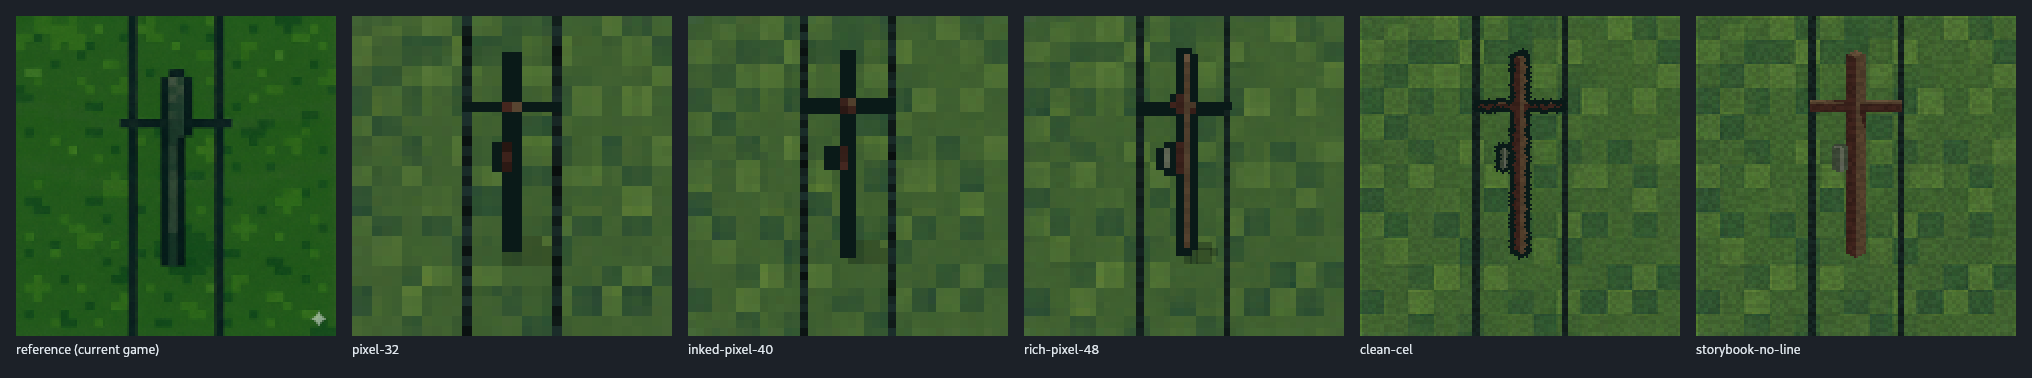
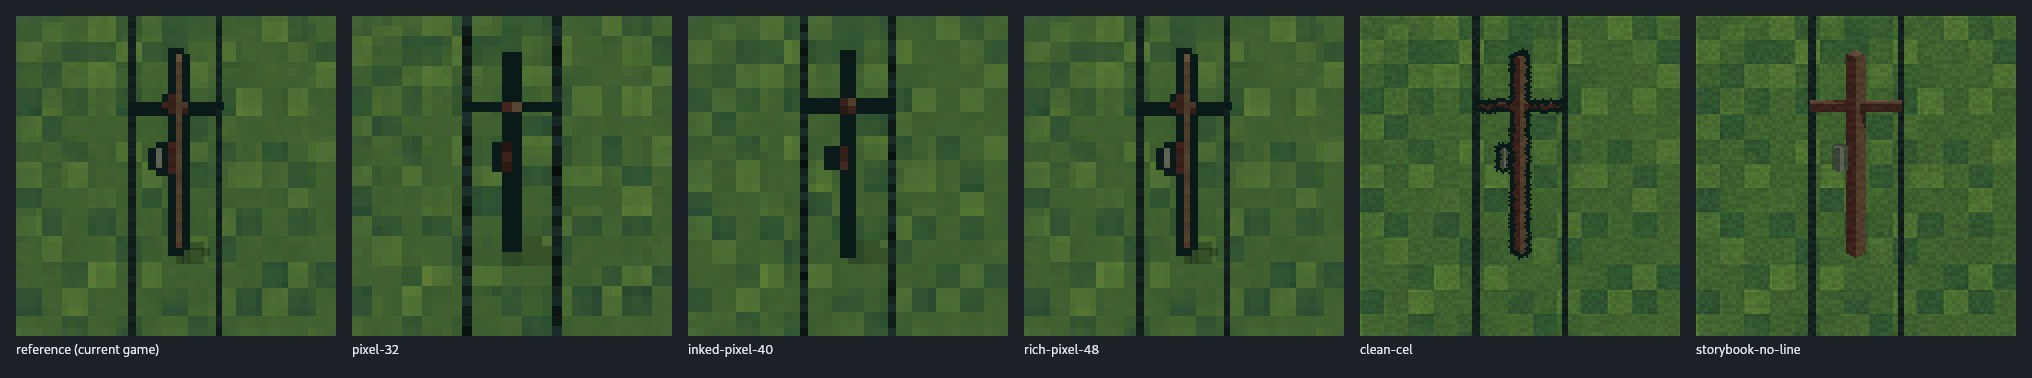
fix(render): full 15-variant hydro line tileset — corners, junctions, ends
Hydro lines shipped only two sprites, a vertical and a horizontal run.
`pickPowerLineTexture` handled straight-throughs and dead ends and returned
`undefined` for everything else; since `tileTexturePaths` has no entry for
`TileKind.PowerLine`, that fell all the way through `resolveTileSprite` to
the renderer's flat-colour-rect branch. Ten of the sixteen N/E/S/W
permutations — four corners, four T-junctions, the crossing and an isolated
tile — drew a plain yellow square instead of a wire.

That is not an edge case. `isPowerCarrier` counts roads, rails, zones and
buildings as connections, so any line run alongside or into built-up land
registers three or four neighbours and hits the broken path.

Hydro now reuses the road set's 15-variant connectivity mapping, generated
from one parametric scene like `road.py`/`rail.py`.

The blocker was that the two old sprites used incompatible projections:
`ns` was plan view (straight parallel wires) while `ew` was elevation view
(a catenary sagging toward the tile edges). Wires arriving from the north as
two parallel lines have nothing to join a curve hanging in elevation, which
is why corners never existed. Unifying on plan view makes all 15 fall out
mechanically. The cost is the sag on E-W runs, and — because a horizontal
crossarm can only present its tips along one screen axis under a fixed
dimetric camera — E-W wires pass the pole rather than visibly hanging from
it. A second crossarm at right angles was tried and reverted: it
[…]

Changed region(s): [[0.0, 0.0291, 0.186, 0.9021]]

diff --git a/app/src/rendering/tileAtlas.ts b/app/src/rendering/tileAtlas.ts
@@ -25,7 +25,7 @@ export interface TileTextures {
   rail: Partial<Record<RoadVariant, PIXI.Texture>>;
   railCrossing: Partial<Record<'ns' | 'ew', PIXI.Texture>>;
   powerPlant: Partial<Record<PowerPlantType, PIXI.Texture>>;
-  powerLine: Partial<Record<'north' | 'east' | 'south' | 'west', PIXI.Texture>>;
+  powerLine: Partial<Record<RoadVariant, PIXI.Texture>>;
   residentialHouses: PIXI.Texture[];
   commercialBuildings: PIXI.Texture[];
   commercialGeminiBuildings: PIXI.Texture[];
@@ -97,10 +97,27 @@ const powerPlantTexturePaths: Partial<Record<PowerPlantType, string>> = {
   [PowerPlantType.Wind]:  assetPath('assets/tiles/power/power-plant-wind.png')
 };
 
-const powerLineTexturePaths = {
-  horizontal: assetPath('assets/tiles/power/power-line-horizontal.png'),
-  vertical:   assetPath('assets/tiles/power/power-line-vertical.png')
-} as const;
+// Hydro lines share the road set's 15-variant connectivity naming. Before
+// this set existed there were only two sprites (a vertical and a horizontal
+// run), so corners, T-junctions and crossings had nothing to draw and fell
+// through to a flat colour rect.
+const powerLineTexturePaths: Record<RoadVariant, string> = {
+  'ns':         assetPath('assets/tiles/power/power-line-ns.png'),
+  'ew':         assetPath('assets/tiles/power/power-line-ew.png'),
+  'corner-ne':  assetPath('assets/tiles/power/power-line-corner-ne.png'),
+  'corner-nw':  assetPath('assets/tiles/power/power-line-corner-nw.png'),
+  'corner-se':  assetPath('assets/tiles/power/power-line-corner-se.png'),
+  'corner-sw':  assetPath('assets/tiles/power/power-line-corner-sw.png'),
+  't-nes':      assetPath('assets/tiles/power/power-line-t-nes.png'),
+  't-new':      assetPath('assets/tiles/power/power-line-t-new.png'),
+  't-nsw':      assetPath('assets/tiles/power/power-line-t-nsw.png'),
+  't-esw':      assetPath('assets/tiles/power/power-line-t-esw.png'),
+  'cross':      assetPath('assets/tiles/power/power-line-cross.png'),
+  'end-n':      assetPath('assets/tiles/power/power-line-end-n.png'),
+  'end-e':      assetPath('assets/tiles/power/power-line-end-e.png'),
+  'end-s':      assetPath('assets/tiles/power/power-line-end-s.png'),
+  'end-w':      assetPath('assets/tiles/power/power-line-end-w.png')
+};
 
 const residentialHouseTexturePaths = [
   assetPath('assets/tiles/buildings/res-house-1.png'),
@@ -189,16 +206,12 @@ export async function loadTileTextures(): Promise<TileTextures> {
     })
   );
 
-  const [powerLineHorizontal, powerLineVertical] = await Promise.all([
-    PIXI.Assets.load<PIXI.Texture>(powerLineTexturePaths.horizontal),
-    PIXI.Assets.load<PIXI.Texture>(powerLineTexturePaths.vertical)
-  ]);
-  const powerLineTextures: TileTextures['powerLine'] = {
-    east:  powerLineHorizontal,
-    west:  powerLineHorizontal,
-    north: powerLineVertical,
-    south: powerLineVertical
-  };
+  const powerLineEntries = await Promise.all(
+    (Object.entries(powerLineTexturePaths) as [RoadVariant, string][]).map(async ([variant, path]) => {
+      const texture = await PIXI.Assets.load<PIXI.Texture>(path);
+      return [variant, texture] as const;
+    })
+  );
 
   const residentialHouses = await Promise.all(
     residentialHouseTexturePaths.map(async (path) => PIXI.Assets.load<PIXI.Texture>(path))
@@ -243,7 +256,7 @@ export async function loadTileTextures(): Promise<TileTextures> {
     rail:                   Object.fromEntries(railEntries),
     railCrossing:           Object.fromEntries(railCrossingEntries),
     powerPlant:             Object.fromEntries(powerPlantEntries),
-    powerLine:              powerLineTextures,
+    powerLine:              Object.fromEntries(powerLineEntries),
     residentialHouses,
     commercialBuildings,
     commercialGeminiBuildings,

diff --git a/app/src/rendering/tileRenderUtils.test.ts b/app/src/rendering/tileRenderUtils.test.ts
@@ -23,7 +23,11 @@ function makeTextures(): TileTextures {
     },
     railCrossing: { ns: tex('crossing-ns'), ew: tex('crossing-ew') },
     powerPlant: {},
-    powerLine: {},
+    powerLine: {
+      ns: tex('power-ns'), ew: tex('power-ew'), 'corner-ne': tex('power-corner-ne'),
+      'corner-se': tex('power-corner-se'),
+      't-nes': tex('power-t-nes'), cross: tex('power-cross'), 'end-n': tex('power-end-n')
+    },
     residentialHouses: [],
     commercialBuildings: [],
     commercialGeminiBuildings: [],
@@ -101,5 +105,57 @@ describe('rail-road level crossings', () => {
     const textures = makeTextures();
     for (const x of [1, 2, 3]) setTile(state, x, 2, TileKind.Road);
     expect(spriteName(state, 2, 2, textures)).toBe('road-ew');
+  });
+});
+
+describe('hydro line sprite picking', () => {
+  // Before the 15-variant set existed only straight runs and dead ends
+  // resolved to a sprite; corners, T-junctions and crossings fell through to
+  // a flat colour rect. These lock in the full connectivity mapping.
+  it('picks connectivity variants from power-carrying neighbours', () => {
+    const state = createInitialState(8, 8);
+    const textures = makeTextures();
+    // Vertical run.
+    setTile(state, 2, 1, TileKind.PowerLine);
+    setTile(state, 2, 2, TileKind.PowerLine);
+    setTile(state, 2, 3, TileKind.PowerLine);
+    expect(spriteName(state, 2, 2, textures)).toBe('power-ns');
+
+    // Turning east at the top of the run makes that tile a corner (it
+    // connects south and east), not a tile with no sprite at all.
+    setTile(state, 3, 1, TileKind.PowerLine);
+    expect(spriteName(state, 2, 1, textures)).toBe('power-corner-se');
+  });
+
+  it('resolves T-junctions and crossings instead of falling through', () => {
+    const state = createInitialState(8, 8);
+    const textures = makeTextures();
+    setTile(state, 4, 4, TileKind.PowerLine);
+    setTile(state, 4, 3, TileKind.PowerLine);   // north
+    setTile(state, 5, 4, TileKind.PowerLine);   // east
+    setTile(state, 4, 5, TileKind.PowerLine);   // south
+    expect(spriteName(state, 4, 4, textures)).toBe('power-t-nes');
+
+    setTile(state, 3, 4, TileKind.PowerLine);   // + west
+    expect(spriteName(state, 4, 4, textures)).toBe('power-cross');
+  });
+
+  it('treats roads and zones as connections, like the power grid does', () => {
+    // isPowerCarrier counts roads, rails, zones and buildings — so a line run
+    // beside built-up land hits the junction variants constantly.
+    const state = createInitialState(8, 8);
+    const textures = makeTextures();
+    setTile(state, 2, 2, TileKind.PowerLine);
+    setTile(state, 2, 1, TileKind.PowerLine);   // north
+    setTile(state, 3, 2, TileKind.Road);        // east
+    expect(spriteName(state, 2, 2, textures)).toBe('power-corner-ne');
+  });
+
+  it('gives an isolated pole a dead-end sprite when it has one neighbour', () => {
+    const state = createInitialState(8, 8);
+    const textures = makeTextures();
+    setTile(state, 2, 2, TileKind.PowerLine);
+    setTile(state, 2, 1, TileKind.PowerLine);
+    expect(spriteName(state, 2, 2, textures)).toBe('power-end-n');
   });
 });

diff --git a/app/src/rendering/tileRenderUtils.ts b/app/src/rendering/tileRenderUtils.ts
@@ -276,29 +276,18 @@ function pickRailCrossingTexture(state: GameState, x: number, y: number, tileTex
 }
 
 function pickPowerLineTexture(state: GameState, x: number, y: number, tileTextures: TileTextures): Texture | undefined {
-  const connectsToPower = (tx: number, ty: number) => {
-    const neighbour = getTile(state, tx, ty);
-    return isPowerCarrier(neighbour);
-  };
+  const connectsToPower = (tx: number, ty: number) => isPowerCarrier(getTile(state, tx, ty));
 
-  const north = y > 0 && connectsToPower(x, y - 1);
-  const south = y < state.height - 1 && connectsToPower(x, y + 1);
-  const east = x < state.width - 1 && connectsToPower(x + 1, y);
-  const west = x > 0 && connectsToPower(x - 1, y);
+  const n = y > 0 && connectsToPower(x, y - 1);
+  const e = x < state.width  - 1 && connectsToPower(x + 1, y);
+  const s = y < state.height - 1 && connectsToPower(x, y + 1);
+  const w = x > 0 && connectsToPower(x - 1, y);
 
-  const powerTextures = tileTextures.powerLine;
-  const neighbours = [north, east, south, west].filter(Boolean).length;
-
-  if (neighbours === 2 && north && south && !east && !west) {
-    return powerTextures.north ?? powerTextures.south;
-  }
-  if (neighbours === 2 && east && west && !north && !south) {
-    return powerTextures.east ?? powerTextures.west;
-  }
-  if (neighbours === 1) {
-    if (north || south) return powerTextures.north ?? powerTextures.south;
-    if (east || west) return powerTextures.east ?? powerTextures.west;
-  }
-
-  return undefined;
+  // Hydro reuses the road set's 15-variant connectivity mapping. Previously
+  // only straight runs and dead ends resolved, so corners, T-junctions and
+  // crossings returned undefined and the renderer fell back to a flat colour
+  // rect — and because isPowerCarrier counts roads, rails, zones and
+  // buildings as connections, those cases are the norm in a built-up city,
+  // not an edge case.
+  return tileTextures.powerLine[roadVariant(n, e, s, w)];
 }

diff --git a/studio/scenes/power.py b/studio/scenes/power.py
@@ -1,13 +1,19 @@
-# Scene: hydro line ground tiles (wires only). The pole is a separate scene
-# (pole.py) rendered through the DIMETRIC camera and composited onto these
-# tiles by the stylizer — the same top-down-ground / elevation-pole cheat the
-# existing (liked) hand-made hydro sprites use.
+# Scene: hydro line ground tiles (wires only), all 15 connectivity variants.
+# The pole is a separate scene (pole.py) rendered through the DIMETRIC camera
+# and composited onto these tiles by the stylizer — the same top-down-ground /
+# elevation-pole cheat the hand-made hydro sprites use.
 #
-# Measured from those sprites, the two orientations use different cheats:
-# - vertical (ns): plan view — two dead-straight wires at ±0.53 world.
-# - horizontal (ew): elevation view — wires hang above centre (anchored at
-#   the pole's crossarm height) and sag toward the tile edges, kinking at
-#   each pole exactly like the reference.
+# PLAN VIEW THROUGHOUT. The first version of this scene drew `ns` in plan view
+# (straight parallel wires) but `ew` in elevation (a catenary sagging toward
+# the tile edges). Those two cheats cannot meet at a corner — a wire arriving
+# from the north as two parallel lines has nowhere to join a curve hanging in
+# elevation — which is why only the two straights and the four dead ends ever
+# had sprites, and every corner/T/cross fell through to a flat colour rect.
+# Unifying on plan view makes all 15 variants fall out of one parametric
+# scene, exactly like road.py and rail.py.
+#
+# Each variant is real rotated geometry — never a rotated sprite, which would
+# rotate the studio sun with it and break lighting consistency.
 #
 # (c) Copyright 2026 Liminal HQ, Scott Morris
 # SPDX-License-Identifier: MIT
@@ -15,37 +21,69 @@
 import math
 
 from studiolib import box
+from scenes.trackpath import CONNECTIVITY_VARIANTS
 
 TOP_DOWN = True
 ROTATION_DEG = 0
 
-VARIANTS = {'ns': None, 'ew': None}
-VARIANT = 'ns'
+VARIANTS = CONNECTIVITY_VARIANTS
+VARIANT = 'ns'  # overridden by the render driver
 
+HALF = 2.05          # overshoot the ±2.0 frame edge so neighbours meet cleanly
+OVERLAP = 0.08       # legs run just past centre so opposite legs join seamlessly
 WIRE_OFFSET = 0.56   # the pole's crossarm-tip gauge — wires attach there
-WIRE_W = 0.09
-# (anchor height at the pole, catenary dip at the tile edge). Both wires
-# attach at the crossarm — the upper on the bar, the lower at its underside —
-# but sag by different amounts, so the pair stays tight at the pole and fans
-# visibly apart toward the edges: attached AND clearly two wires.
-EW_WIRES = ((0.84, 0.20), (0.72, 0.34))
+WIRE_W = 0.09        # 1 art cell; anything thinner shreds when downsampled
+WIRE_Z = 0.06
+
+# Dead-end poles carry the whole pull of the line, so they're braced by guy
+# wires anchored on the far side. Two, splayed off the axis, the way real
+# terminal poles are guyed.
+GUY_LEN = 0.95
+GUY_TOP = 1.30       # attach height; only affects relief (wires are flat-shaded)
+GUY_SPLAY_DEG = 26
+
+# Unit vectors, in the top-down camera's north-up frame (+Y north, +X east).
+EDGE_DIR = {'n': (0.0, 1.0), 'e': (1.0, 0.0), 's': (0.0, -1.0), 'w': (-1.0, 0.0)}
+
+
+def _leg(mats, edge):
+    """A wire pair running from one tile edge in to just past the centre."""
+    ux, uy = EDGE_DIR[edge]
+    length = HALF + OVERLAP
+    mid = (HALF - OVERLAP) / 2
+    for side in (1, -1):
+        if ux == 0:                      # north/south leg — wires offset in X
+            loc = (WIRE_OFFSET * side, uy * mid, WIRE_Z)
+            scale = (WIRE_W, length, 0.04)
+        else:                            # east/west leg — wires offset in Y
+            loc = (ux * mid, WIRE_OFFSET * side, WIRE_Z)
+            scale = (length, WIRE_W, 0.04)
+        box(mats, 'wire', loc, scale)
+
+
+def _guy(mats, ux, uy):
+    """One guy wire: from the pole's upper trunk down to a ground anchor.
+
+    Modelled as a box elongated along +X, tilted about Y so it descends, then
+    spun about Z onto the compass bearing. Seen from the straight-down camera
+    it reads as a line radiating from the pole to its anchor.
+    """
+    span = math.hypot(GUY_LEN, GUY_TOP)
+    box(mats, 'wire',
+        (ux * GUY_LEN / 2, uy * GUY_LEN / 2, GUY_TOP / 2),
+        (span, WIRE_W * 0.8, 0.035),
+        (0, math.atan2(GUY_TOP, GUY_LEN), math.atan2(uy, ux)))
 
 
 def build(mats):
-    if VARIANT == 'ns':
-        for side in (1, -1):
-            box(mats, 'wire', (WIRE_OFFSET * side, 0, 0.06), (WIRE_W, 4.1, 0.04))
-    else:
-        # Sagging elevation-view wires: segmented along x, dipping toward the
-        # edges; adjacent tiles continue the curve, kinking at each pole.
-        segments = 16
-        for anchor, sag in EW_WIRES:
-            for i in range(segments):
-                x0 = -2.05 + 4.1 * i / segments
-                x1 = -2.05 + 4.1 * (i + 1) / segments
-                y0 = anchor - sag * (x0 / 2) ** 2
-                y1 = anchor - sag * (x1 / 2) ** 2
-                cx, cy = (x0 + x1) / 2, (y0 + y1) / 2
-                length = math.hypot(x1 - x0, y1 - y0)
-                box(mats, 'wire', (cx, cy, 0.06), (length + 0.02, WIRE_W, 0.04),
-                    (0, 0, math.atan2(y1 - y0, x1 - x0)))
+    edges = VARIANTS[VARIANT]
+    for edge in edges:
+        _leg(mats, edge)
+
+    # Dead end: brace the terminal pole against the single direction of pull.
+    if len(edges) == 1:
+        pull_x, pull_y = EDGE_DIR[next(iter(edges))]
+        base = math.atan2(-pull_y, -pull_x)          # anchor opposite the pull
+        for sign in (1, -1):
+            theta = base + sign * math.radians(GUY_SPLAY_DEG)
+            _guy(mats, math.cos(theta), math.sin(theta))

diff --git a/studio/scenes/pole.py b/studio/scenes/pole.py
@@ -24,11 +24,21 @@ def build(mats):
     # enough (0.17 ~ 2 art cells) that the wood material shows between its
     # ink outlines. Wood role — shaded two-tone by the studio sun.
     box(mats, 'tie', (0, 0, 1.35), (0.17, 0.17, 2.7))
-    # Single crossarm, oriented perpendicular to the camera azimuth so it
-    # reads horizontal, thick enough (0.14 ~ 1.7 art cells) that its wood
-    # core shows between the ink outlines like the pole's does. Both wires
-    # hang from its two ends. (Insulator nubs were tried and cut: sub-cell
-    # at this grid, they just added ink and mushed the junction.)
+    # Crossarms, thick enough (0.14 ~ 1.7 art cells) that the wood core shows
+    # between the ink outlines like the pole's does. (Insulator nubs were
+    # tried and cut: sub-cell at this grid, they just added ink and mushed
+    # the junction.)
+    #
+    # One arm, along world (-1, 1) so the fixed 45° azimuth reads it
+    # horizontal on screen, with its tips on the N-S wires.
+    #
+    # A second arm at right angles was tried, to give the E-W wires tips to
+    # land on too — physically what a junction pole has. It does not survive
+    # this projection: a bar along (1, 1) points away from the camera, so the
+    # 2:1 dimetric foreshortens 1.15 world units into a stub that merely
+    # thickens the first arm into a blob. E-W wires therefore pass the pole
+    # rather than visibly hanging from it; accepted, and cheaper to revisit in
+    # the stylizer than in geometry.
     box(mats, 'tie', (0, 0, 2.0), (1.15, 0.14, 0.11), (0, 0, math.radians(135)))
     # Transformer can on the pole, well below the arm so it stays clear of
     # the wire bundle (grey).

diff --git a/studio/AUTHORING.md b/studio/AUTHORING.md
@@ -100,6 +100,7 @@ Ground tiles are a second asset class: set `TOP_DOWN = True` in the scene and th
 - Connectivity variant sets (the road/rail 15: `ns`, `ew`, 4×`corner-*`, 4×`t-*`, `cross`, 4×`end-*`) come from ONE parametric scene exposing a `VARIANTS` dict and a `VARIANT` module global; the driver renders each as `<scene>-<variant>`. Always build variants as rotated *geometry*, never rotate the finished sprite — sprite rotation would rotate the sun with it and break lighting consistency.
 - Render all variants in one Blender session: `... render-passes.py -- rail all`; stylize each with `bun stylize.mjs rail-<variant>`.
 - **Billboard props** (the hydro pole): tall standing objects on ground tiles are a separate scene rendered through the *dimetric* camera and composited by the stylizer (`SCENE_STYLES[x].overlay`), at 1:1 world scale so attachment points line up with ground geometry (crossarm tips ↔ wire lines). `overlayOffsetY` (in px, snapped to whole art cells) seats the prop vertically; a cell-aligned shadow blob is stamped under it, matching the studio sun.
+- **Ground tiles are plan view; billboard props are elevation — and the two only meet along one screen axis.** Under the fixed 45° azimuth exactly one horizontal world direction, `(-1, 1)`, projects to screen-horizontal; its perpendicular `(1, 1)` points away from the camera and foreshortens to a stub. So a prop's horizontal feature can present itself to ground geometry running one way but not the other: the hydro pole's crossarm carries the N-S wires and merely crosses the E-W ones. Adding a second arm at right angles does *not* fix this (it just thickens the first into a blob), and neither does rotating the camera per variant — a horizontal bar can never read as a screen-vertical line in an elevation view. Budget for this when designing a prop that has to serve a full 15-variant connectivity set, or accept the asymmetry.
 
 ## Stylizer knobs (per scene, in `stylize.mjs`)
 
